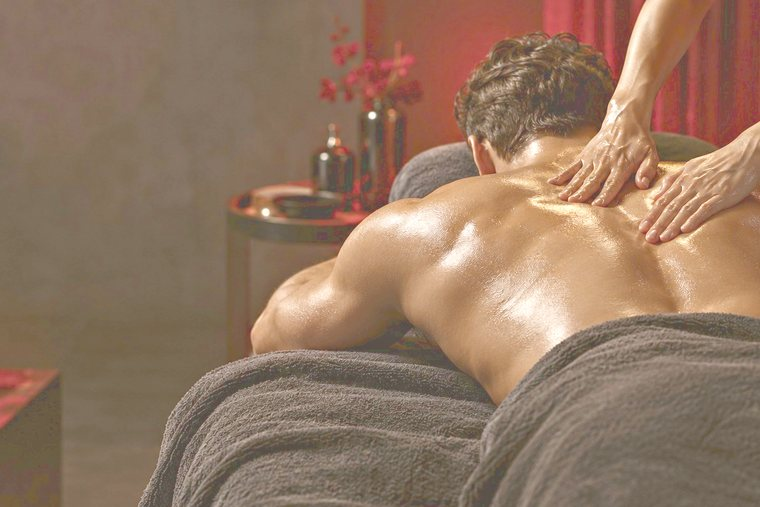
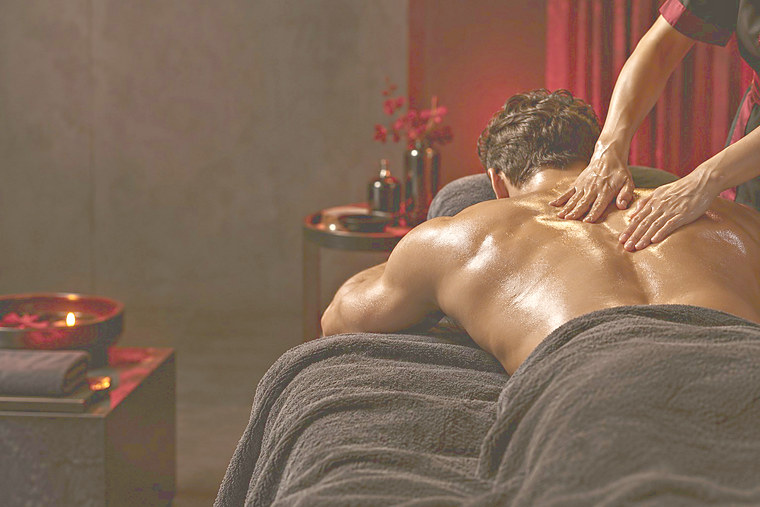
Männerbilder: volle Bildfläche statt Ausschnitt (schärfer), Fußpflege mit hellem Luxus-Motiv

diff --git a/website/maenner.html b/website/maenner.html
@@ -119,7 +119,7 @@
       <div class="showcase-media">
         <picture>
           <source type="image/webp" srcset="assets/img/treatments/herren-gesicht-760.webp 760w, assets/img/treatments/herren-gesicht-1400.webp 1400w" sizes="(max-width:900px) 100vw, 50vw">
-          <img src="assets/img/treatments/herren-gesicht-1400.jpg" srcset="assets/img/treatments/herren-gesicht-760.jpg 760w, assets/img/treatments/herren-gesicht-1400.jpg 1400w" sizes="(max-width:900px) 100vw, 50vw" width="1400" height="933" alt="Gesichtspflege für Männer mit Serum" loading="lazy" decoding="async">
+          <img style="object-position:72% 30%" src="assets/img/treatments/herren-gesicht-1400.jpg" srcset="assets/img/treatments/herren-gesicht-760.jpg 760w, assets/img/treatments/herren-gesicht-1400.jpg 1400w" sizes="(max-width:900px) 100vw, 50vw" width="1400" height="933" alt="Gesichtspflege für Männer mit Serum" loading="lazy" decoding="async">
         </picture>
       </div>
       <div class="showcase-text reveal">
@@ -138,7 +138,7 @@
       <div class="showcase-media">
         <picture>
           <source type="image/webp" srcset="assets/img/treatments/herren-fuesse-760.webp 760w, assets/img/treatments/herren-fuesse-1400.webp 1400w" sizes="(max-width:900px) 100vw, 50vw">
-          <img src="assets/img/treatments/herren-fuesse-1400.jpg" srcset="assets/img/treatments/herren-fuesse-760.jpg 760w, assets/img/treatments/herren-fuesse-1400.jpg 1400w" sizes="(max-width:900px) 100vw, 50vw" width="1400" height="933" alt="Fußbad bei der Fußpflege für Männer" loading="lazy" decoding="async">
+          <img src="assets/img/treatments/herren-fuesse-1400.jpg" srcset="assets/img/treatments/herren-fuesse-760.jpg 760w, assets/img/treatments/herren-fuesse-1400.jpg 1400w" sizes="(max-width:900px) 100vw, 50vw" width="1400" height="933" alt="Heller Behandlungsraum mit Pflegeprodukt und Handtüchern für die Fußpflege" loading="lazy" decoding="async">
         </picture>
       </div>
       <div class="showcase-text reveal">
@@ -157,7 +157,7 @@
       <div class="showcase-media">
         <picture>
           <source type="image/webp" srcset="assets/img/treatments/herren-massage-760.webp 760w, assets/img/treatments/herren-massage-1400.webp 1400w" sizes="(max-width:900px) 100vw, 50vw">
-          <img src="assets/img/treatments/herren-massage-1400.jpg" srcset="assets/img/treatments/herren-massage-760.jpg 760w, assets/img/treatments/herren-massage-1400.jpg 1400w" sizes="(max-width:900px) 100vw, 50vw" width="1400" height="933" alt="Rückenmassage für Männer" loading="lazy" decoding="async">
+          <img style="object-position:55% 45%" src="assets/img/treatments/herren-massage-1400.jpg" srcset="assets/img/treatments/herren-massage-760.jpg 760w, assets/img/treatments/herren-massage-1400.jpg 1400w" sizes="(max-width:900px) 100vw, 50vw" width="1400" height="933" alt="Rückenmassage für Männer im Behandlungsraum" loading="lazy" decoding="async">
         </picture>
       </div>
       <div class="showcase-text reveal">

diff --git a/website/maenner/fusspflege.html b/website/maenner/fusspflege.html
@@ -118,7 +118,7 @@
         <div class="hero-portrait">
           <picture>
             <source type="image/webp" srcset="../assets/img/treatments/herren-fuesse-760.webp 760w, ../assets/img/treatments/herren-fuesse-1400.webp 1400w" sizes="(max-width:900px) 100vw, 600px">
-            <img src="../assets/img/treatments/herren-fuesse-1400.jpg" srcset="../assets/img/treatments/herren-fuesse-760.jpg 760w, ../assets/img/treatments/herren-fuesse-1400.jpg 1400w" sizes="(max-width:900px) 100vw, 600px" width="1400" height="933" alt="Fußpflege Behandlung" fetchpriority="high">
+            <img src="../assets/img/treatments/herren-fuesse-1400.jpg" srcset="../assets/img/treatments/herren-fuesse-760.jpg 760w, ../assets/img/treatments/herren-fuesse-1400.jpg 1400w" sizes="(max-width:900px) 100vw, 600px" width="1400" height="933" alt="Heller Behandlungsraum mit Pflegeprodukt und Handtüchern für die Fußpflege" fetchpriority="high">
           </picture>
         </div>
       </div>
